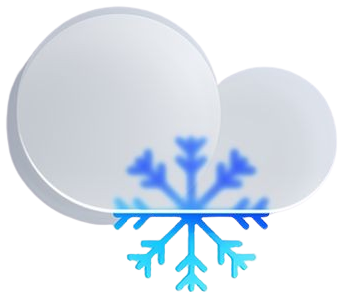
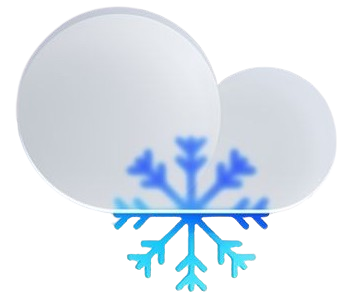
updated

diff --git a/script.js b/script.js
@@ -323,11 +323,17 @@ function search() {
 
 
     function checkWeatherCondition(data) {
+
+
         // Query selectors for dynamic updates
+        let currentTime = Math.floor(Date.now() / 1000);
+        let sunIcon = document.querySelector(".container-bottom .div5 .icon1 img");
         let backgroundImage = document.querySelector(".background-animation");
         let weatherIcon = document.querySelector(".basic .weather-icon");
         let tempIcon = document.querySelector(".details .temp img");
         let weatherIcon2 = document.querySelector(".container-bottom .div1 .icon1 .weather-icon");
+        const mainCondition = data.weather[0].main.toLowerCase();
+        const description = data.weather[0].description.toLowerCase();
 
         // Update common details
         document.querySelector(".details .temp .temperature").innerText = `${data.main.temp}°C`;
@@ -341,12 +347,21 @@ function search() {
         document.querySelector(".div5 .unit .values .val1").innerText = new Date(data.sys.sunrise * 1000).toLocaleTimeString([], { hour: '2-digit', minute: '2-digit' });
         document.querySelector(".div5 .unit .values .val2").innerText = new Date(data.sys.sunset * 1000).toLocaleTimeString([], { hour: '2-digit', minute: '2-digit' });
 
-        let currentTime = Math.floor(Date.now() / 1000);
-        // const mainCondition = data.weather[0].main.toLowerCase();
-        const mainCondition = "clear";
-        // const description = data.weather[0].description.toLowerCase();
-        const description = "clear";
 
+        function changeIcon() {
+            // Calculate 1.5 hours (in seconds)
+            const oneAndHalfHours = 1.5 * 60 * 60;
+            if (currentTime > data.sys.sunrise && currentTime < (data.sys.sunset - oneAndHalfHours)) {
+                sunIcon.src = `./images/sunrise.png`;
+            }
+            else if (currentTime >= (data.sys.sunset - oneAndHalfHours) && currentTime <= data.sys.sunset) {
+                sunIcon.src = `./images/sunset1.png`;
+            }
+            else if (currentTime > data.sys.sunset) {
+                sunIcon.src = `./images/sunset.png`;
+            }
+        }
+        changeIcon();
         // Update temperature-based icons
         if (data.main.temp < 5) {
             tempIcon.src = `./images/thermometer0.png`;
@@ -382,27 +397,18 @@ function search() {
                 makeItRainHeavy();
             }
         } else if (mainCondition === "snow") {
-            weatherIcon.src = `./images/snowfall-cloud.png`;
+            backgroundImage.style.backgroundImage = currentTime > data.sys.sunrise
+                ? `url('./images/day/light-snowfall.jpg')`
+                : `url('./images/night/night-snowfall.jpg')`;
+            weatherIcon.src = `./images/snowfall-cloud1.png`;
+            weatherIcon2.src = currentTime > data.sys.sunrise
+                ? `./images/light-cloud-day.png`
+                : `./images/moon-cloud.png`;
+
             backgroundImage.innerHTML = `<div class="snow"></div>`;
 
             if (description.includes("light")) {
-                // Light snowfall during the day/night
-                backgroundImage.style.backgroundImage = currentTime > data.sys.sunrise
-                    ? `url('./images/day/light-snowfall.jpg')`
-                    : `url('./images/night/night-light-snowfall.jpg')`;
-                document.querySelector(".snow").classList.add("light-snow");
-            } else if (description.includes("heavy")) {
-                // Heavy snowfall during the day/night
-                backgroundImage.style.backgroundImage = currentTime > data.sys.sunrise
-                    ? `url('./images/day/heavy-snowfall.jpg')`
-                    : `url('./images/night/night-heavy-snowfall.jpg')`;
-                document.querySelector(".snow").classList.add("heavy-snow");
-            } else {
-                // Snow with no active snowfall (e.g., icy conditions)
-                backgroundImage.style.backgroundImage = currentTime > data.sys.sunrise
-                    ? `url('./images/day/snowy-landscape.jpg')`
-                    : `url('./images/night/snowy-night.jpg')`;
-                document.querySelector(".snow").style.display = "none";
+                weatherIcon.src = `./images/snowfall-cloud.png`;
             }
         } else if (mainCondition === "clear") {
             if (data.clouds.all > 0) {
